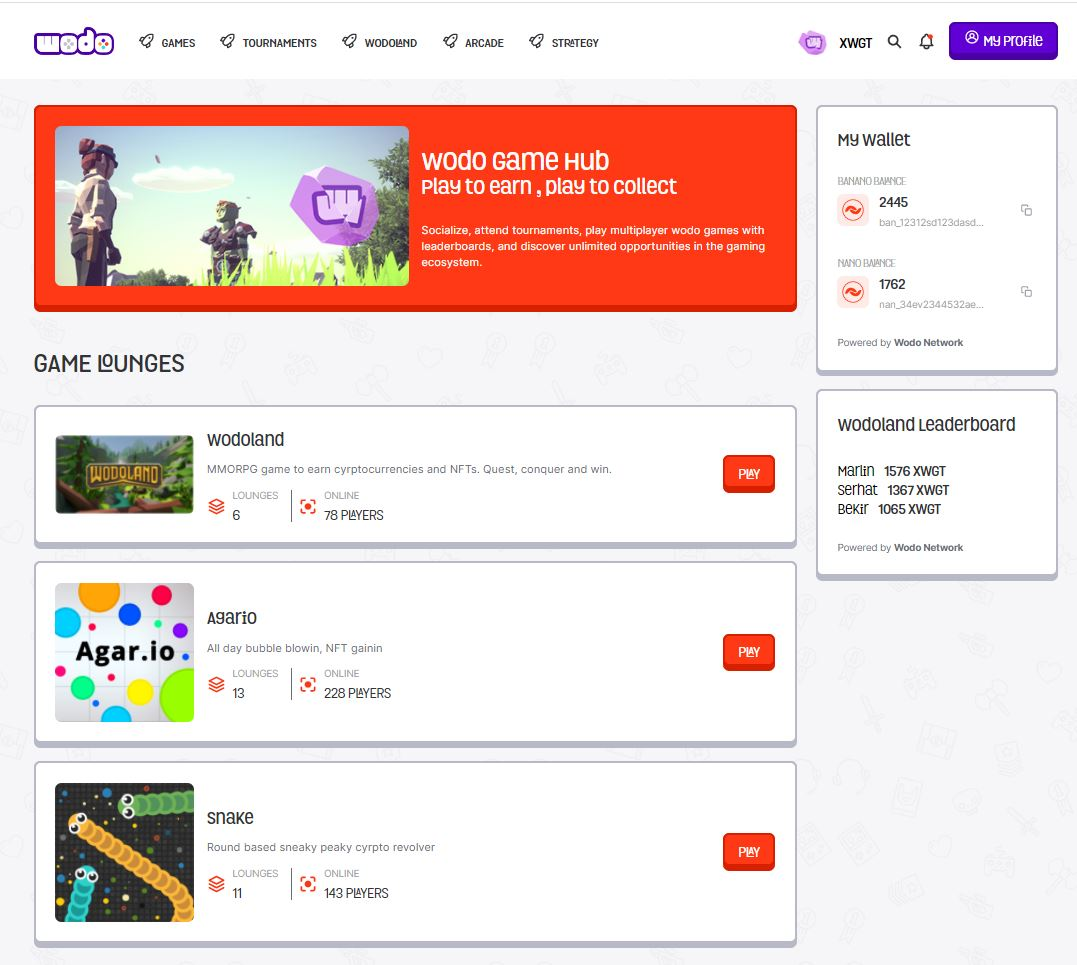
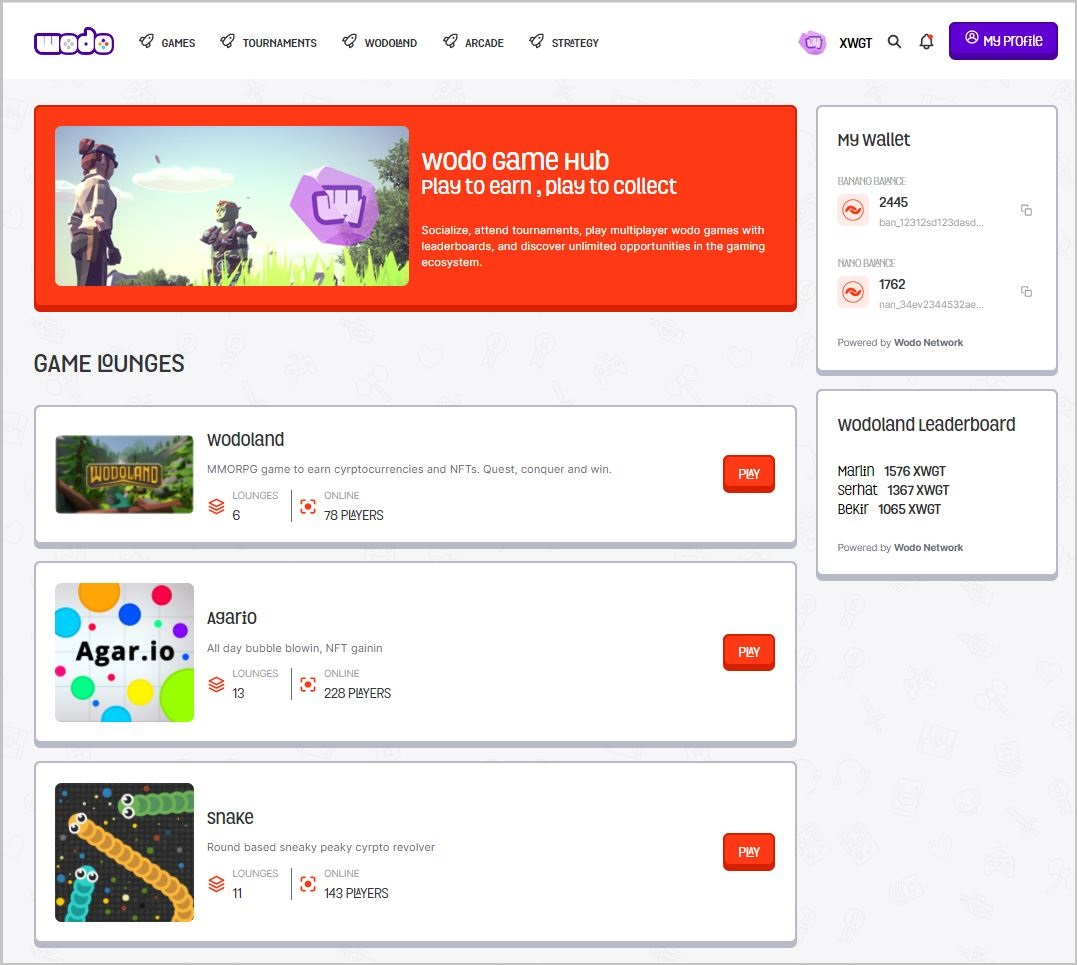
GitBook: [#462] No subject

Changed region(s): [[0.0, 0.9948, 1.0, 1.0], [0.9805, 0.0, 1.0, 0.0311], [0.0, 0.0, 0.0306, 0.0311]]

diff --git a/docs/ecosystem/gaming-hub.md b/docs/ecosystem/gaming-hub.md
@@ -18,16 +18,10 @@ Gaming hub fundamentally leverages two new aspects of the crypto-enabled games:
 Click on the images to zoom in
 {% endhint %}
 
-![Game Hub Login Screen](../.gitbook/assets/homepage1.png)
-
-
+![Game Hub Login Screen](../.gitbook/assets/wodo\_game\_hub\_login.jpg)
 
 ![Game Gub Lounges ](../.gitbook/assets/wodo\_game\_hub\_lounges.jpg)
 
-
-
 ![Game Gub Wodoland Lounges](../.gitbook/assets/wodo\_game\_hub\_wodoland\_lounges.jpg)
-
-
 
 ![Wodo Game Hub User Profile](../.gitbook/assets/wodo\_game\_hub\_profile.jpg)
